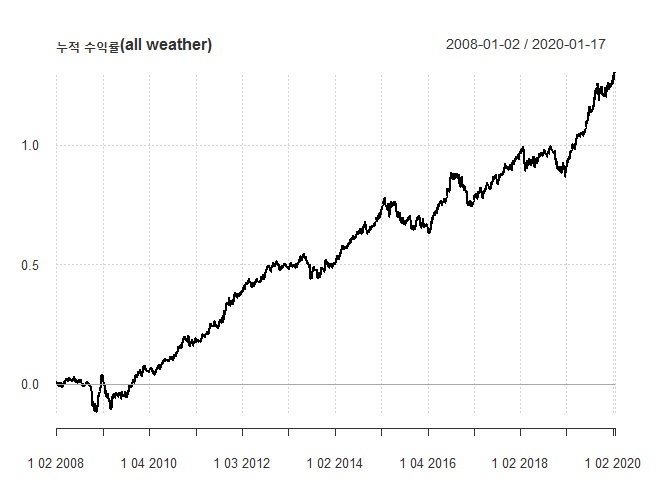
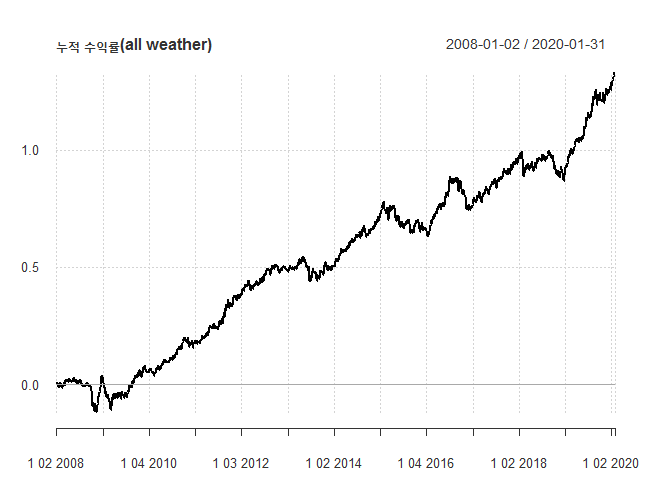
updates

diff --git a/all_weather.md b/all_weather.md
@@ -72,7 +72,7 @@ names(Port_all_net) = 'Returns_allweather'
 
 |             | 연평균수익률 | 누적수익률 | 최대낙폭 | 연평균표준편차 |
 |-------------|:------------:|:----------:|:--------:|:--------------:|
-| All Weather |   0.0717955  |  1.299518  |  0.14482 |    0.0721303   |
+| All Weather |   0.0726537  |  1.329369  |  0.14482 |    0.0720501   |
 
 ### GDAA(Global Dynamic Asset Allocation) 전략을 통한 포트폴리오
 
@@ -199,7 +199,7 @@ names(Port_gdaa_net) = 'Returns_gdaa'
 
 |      | 연평균수익률 | 누적수익률 |  최대낙폭 | 연평균표준편차 |
 |------|:------------:|:----------:|:---------:|:--------------:|
-| GDAA |   0.0801885  |  1.459283  | 0.1631827 |    0.1039779   |
+| GDAA |   0.0789876  |  1.430672  | 0.1631827 |    0.1038817   |
 
 ### All weather vs GDAA
 
@@ -217,5 +217,5 @@ charts.PerformanceSummary(portfolios, main = 'All weather vs GDAA')
 
 |             | 연평균수익률 | 누적수익률 |  최대낙폭 | 연평균표준편차 |
 |-------------|:------------:|:----------:|:---------:|:--------------:|
-| All Weather |   0.0717955  |  1.299518  | 0.1448200 |    0.0721303   |
-| GDAA        |   0.0801885  |  1.459283  | 0.1631827 |    0.1039779   |
+| All Weather |   0.0726537  |  1.329369  | 0.1448200 |    0.0720501   |
+| GDAA        |   0.0789876  |  1.430672  | 0.1631827 |    0.1038817   |
